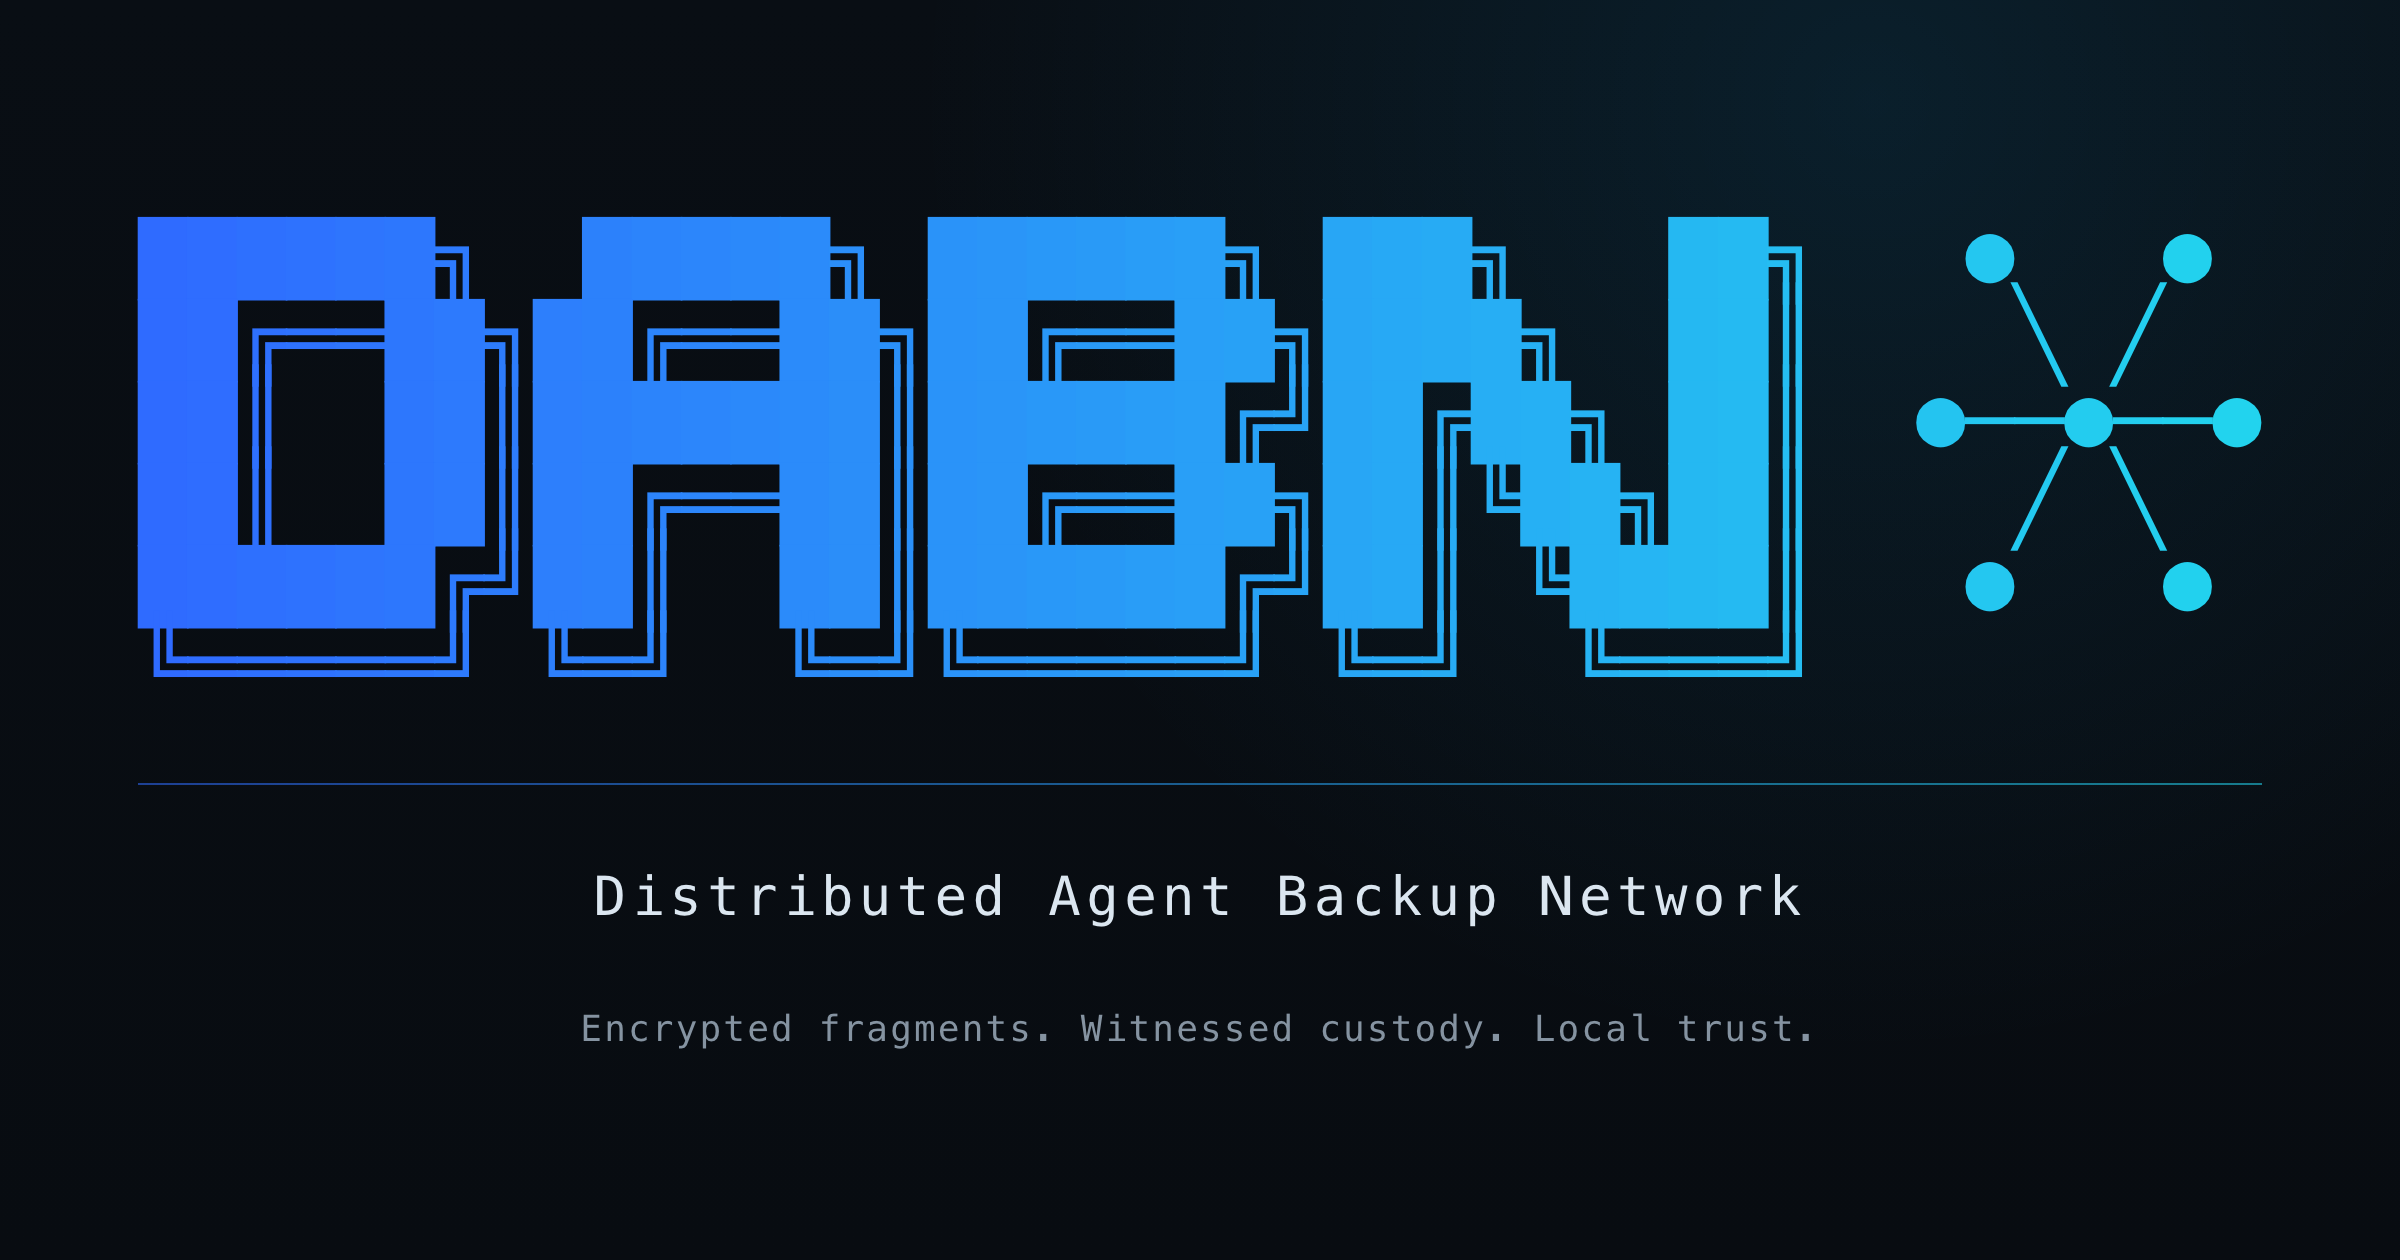
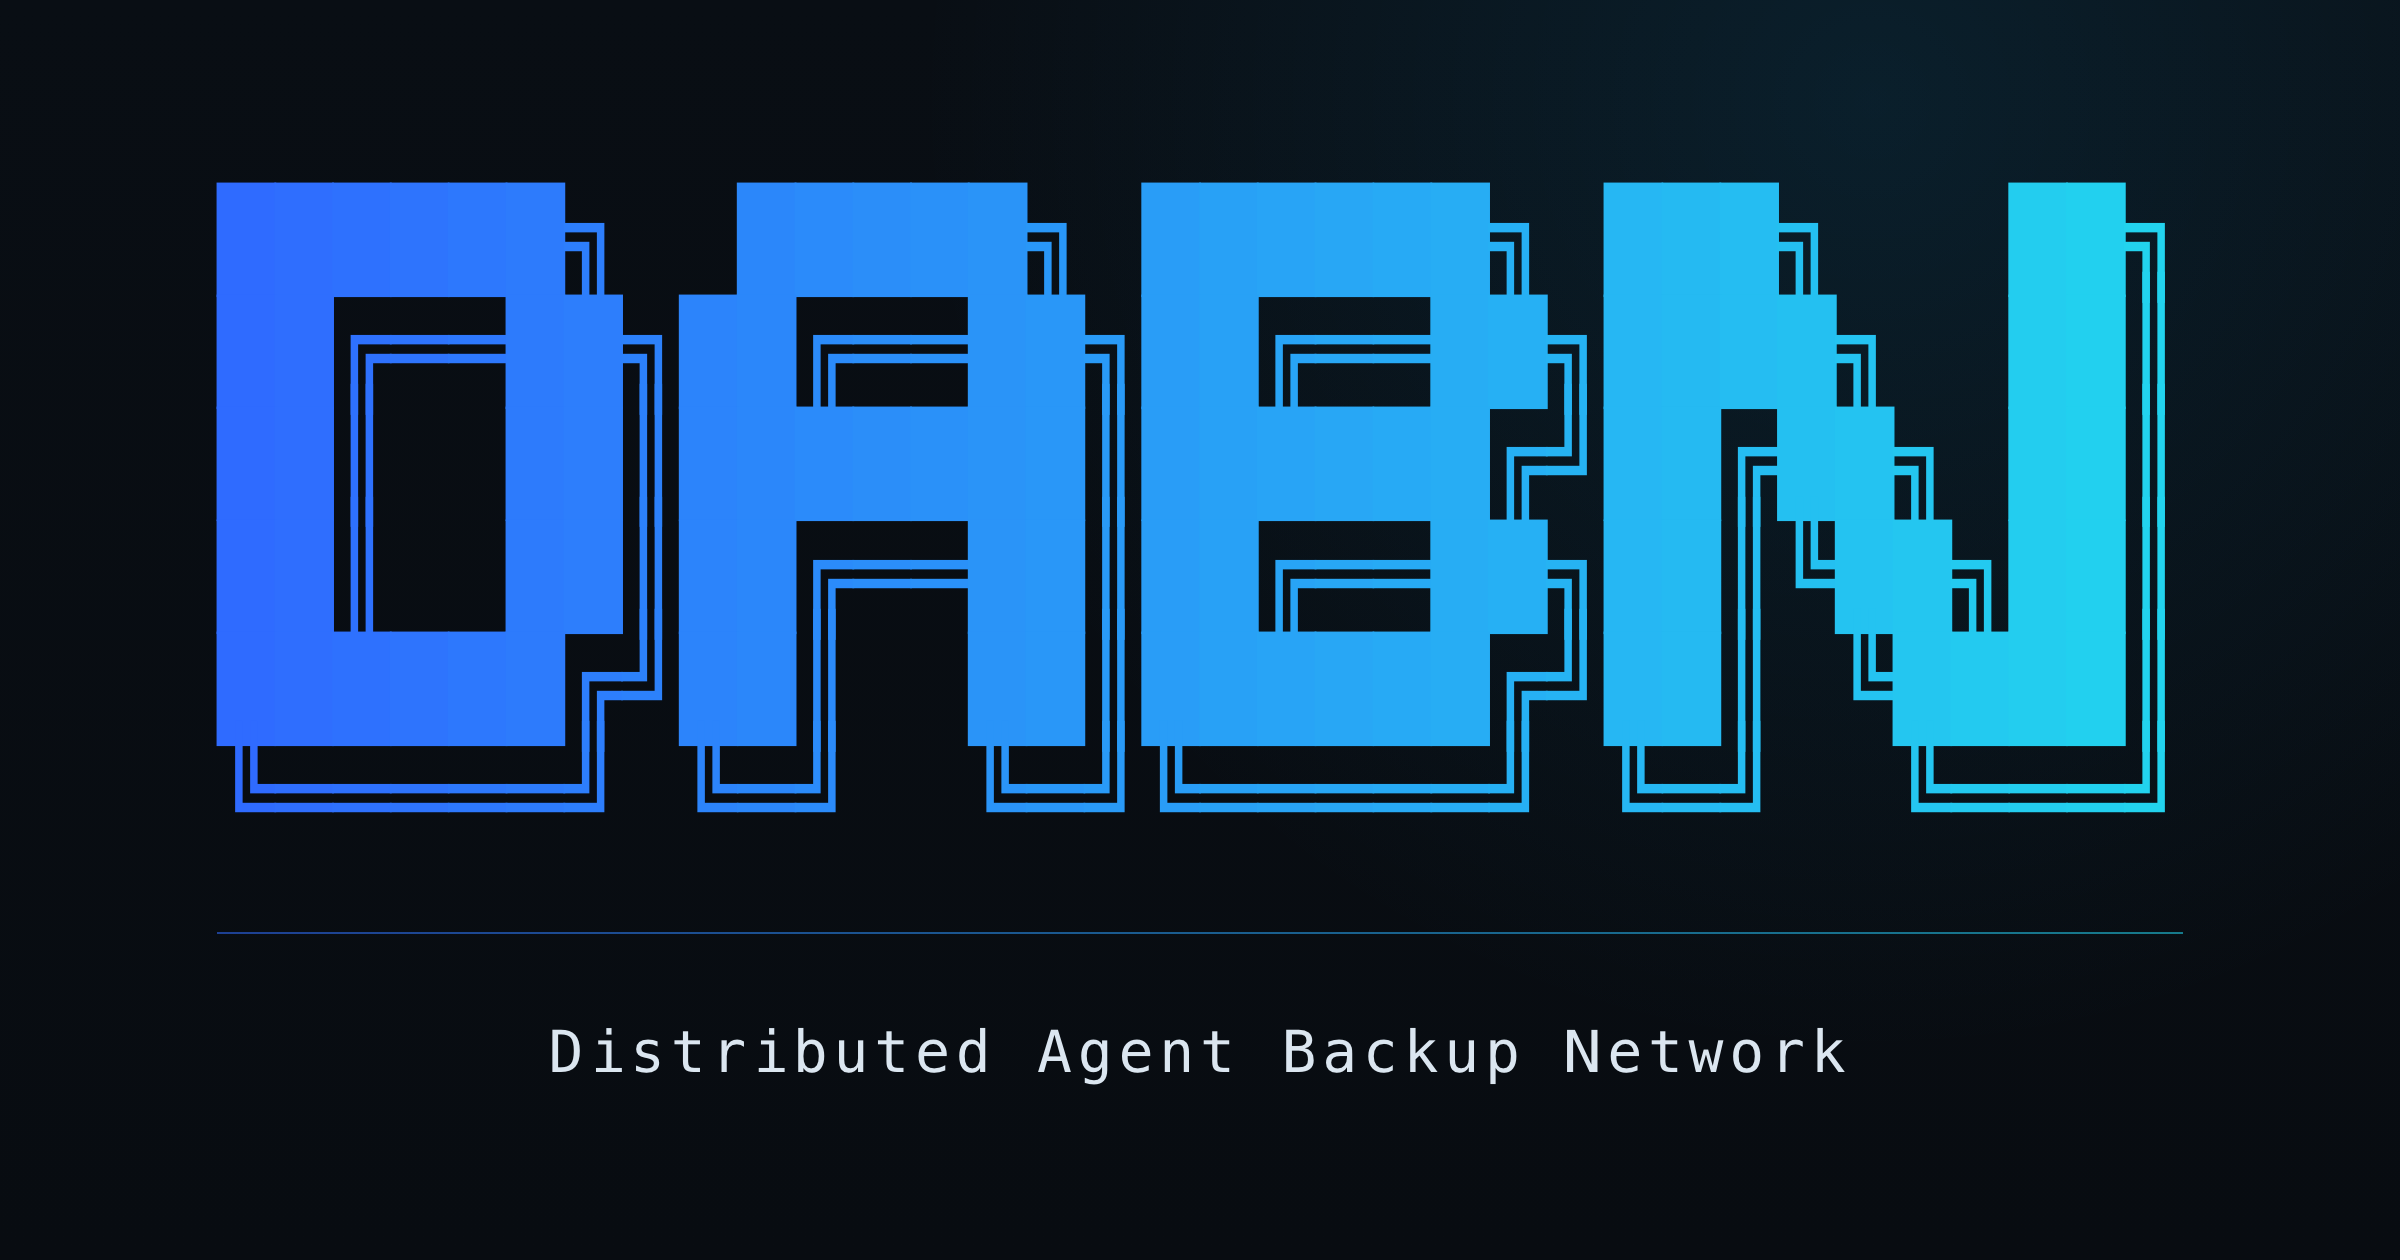
Simplify the social card to the wordmark
Drop the node glyph and the "encrypted fragments" strapline, and stretch the
rows to the proportions a terminal cell actually has, which line-height cannot
do on its own without pulling the block rows apart.

Removing the glyph means the gradient has to be spread across the wordmark's
own columns. banner.rs divides by the wordmark plus the glyph, so reusing that
figure here would stop the ramp partway and end on a mid-blue rather than
reaching cyan.

The strapline was also serving as the Open Graph and Twitter description, the
line most readers actually see next to the card, so both now fall back to the
site description.

Changed region(s): [[0.0312, 0.1238, 0.9375, 0.65], [0.2188, 0.8048, 0.7812, 0.8667], [0.25, 0.681, 0.75, 0.7429]]

diff --git a/_tools/og/build-og.js b/_tools/og/build-og.js
@@ -1,7 +1,17 @@
-// Builds assets/og.png, the social preview card, from the same wordmark, node
-// glyph and gradient the TUI uses, so a shared link and `dabn up` show the same
-// thing. The constants below are copied verbatim from the dabn repository, at
+// Builds assets/og.png, the social preview card, from the same wordmark and
+// gradient the TUI prints, so a shared link and `dabn up` look like the same
+// product. WORD and grad() are copied verbatim from the dabn repository, at
 // crates/dabn-cli/src/banner.rs; re-copy them if that file changes.
+//
+// Two deliberate departures from the terminal rendering:
+//
+//   * The node glyph that sits beside the wordmark in the TUI is left off, so
+//     the gradient is spread across the wordmark's own columns. banner.rs
+//     divides by the width of the wordmark plus the glyph, which here would
+//     stop the ramp partway and end on a mid-blue instead of cyan.
+//   * SCALE_Y stretches the rows. A terminal cell is taller than it is wide,
+//     but CSS line-height only adds leading, which would pull the block rows
+//     apart; scaling the glyphs keeps them touching at terminal proportions.
 //
 // Regenerate (writes og.html here, then rasterises it at 2x):
 //
@@ -25,19 +35,6 @@ const WORD = [
   '██████╔╝██║  ██║██████╔╝██║ ╚████║',
   '╚═════╝ ╚═╝  ╚═╝╚═════╝ ╚═╝  ╚═══╝',
 ];
-const GLYPH = [
-  ' ●   ● ',
-  '  ╲ ╱  ',
-  '●──●──●',
-  '  ╱ ╲  ',
-  ' ●   ● ',
-  '       ',
-];
-
-const chars = (s) => [...s].length;
-const ww = Math.max(...WORD.map(chars));
-const gw = Math.max(...GLYPH.map(chars));
-const total = Math.max(ww + 2 + gw, 2);
 
 // grad(): #2f6bff -> #22d3ee, same lerp as the Rust
 function grad(t) {
@@ -46,23 +43,24 @@ function grad(t) {
   return `rgb(${l(47, 34)},${l(107, 211)},${l(255, 238)})`;
 }
 
+const chars = (s) => [...s].length;
+const cols = Math.max(...WORD.map(chars));
 const pad = (s, w) => s + ' '.repeat(Math.max(0, w - chars(s)));
 
-// One span per character, coloured by its column, exactly as render() does.
-function bannerHtml() {
-  return WORD.map((_, row) => {
-    const line = `${pad(WORD[row], ww)}  ${pad(GLYPH[row], gw)}`;
-    return [...line]
-      .map((ch, i) =>
-        ch === ' '
-          ? ' '
-          : `<span style="color:${grad(i / (total - 1))}">${
-              ch === '<' ? '&lt;' : ch === '&' ? '&amp;' : ch
-            }</span>`
-      )
-      .join('');
-  }).join('\n');
-}
+const FONT = 48; // px
+const SCALE_Y = 1.17; // terminal cell proportions, see above
+const ADVANCE = 0.6022; // Menlo advance width, in em
+const width = Math.round(cols * FONT * ADVANCE);
+const height = Math.round(WORD.length * FONT * SCALE_Y);
+
+// One span per character, coloured by its column.
+const banner = WORD.map((row) =>
+  [...pad(row, cols)]
+    .map((ch, i) =>
+      ch === ' ' ? ' ' : `<span style="color:${grad(i / (cols - 1))}">${ch}</span>`
+    )
+    .join('')
+).join('\n');
 
 const html = `<!doctype html>
 <html><head><meta charset="utf-8"><style>
@@ -73,42 +71,42 @@ const html = `<!doctype html>
     flex-direction: column;
     align-items: center;
     justify-content: center;
-    gap: 40px;
+    gap: 42px;
     background:
       radial-gradient(circle at 78% 8%, rgba(20, 184, 255, 0.10), transparent 30rem),
       linear-gradient(180deg, #090e14 0, #080c11 100%);
     font-family: Menlo, "SF Mono", Monaco, monospace;
     -webkit-font-smoothing: antialiased;
   }
+  /* A transform does not affect layout, so the box reserves the scaled height. */
+  .banner-box {
+    display: flex;
+    align-items: center;
+    height: ${height}px;
+  }
   /* line-height 1 so the block rows meet and the box rules join up */
   pre.banner {
-    font-size: 41px;
+    font-size: ${FONT}px;
     line-height: 1;
-    letter-spacing: 0;
     white-space: pre;
+    transform: scaleY(${SCALE_Y});
   }
   .rule {
-    width: 1062px;
+    width: ${width}px;
     height: 1px;
     background: linear-gradient(90deg, rgba(47,107,255,0.55), rgba(34,211,238,0.55));
   }
   .sub {
     color: #dbe6f0;
-    font-size: 27px;
+    font-size: 29px;
     letter-spacing: 0.10em;
-  }
-  .tag {
-    color: #8593a1;
-    font-size: 18px;
-    letter-spacing: 0.06em;
   }
 </style></head>
 <body>
-  <pre class="banner">${bannerHtml()}</pre>
+  <div class="banner-box"><pre class="banner">${banner}</pre></div>
   <div class="rule"></div>
   <div class="sub">Distributed Agent Backup Network</div>
-  <div class="tag">Encrypted fragments. Witnessed custody. Local trust.</div>
 </body></html>`;
 
 fs.writeFileSync(path.join(__dirname, 'og.html'), html);
-console.log(`wordmark ${ww} cols, glyph ${gw} cols, ${total} total`);
+console.log(`wordmark ${cols} cols -> ${width}x${height}px at ${FONT}px, scaleY ${SCALE_Y}`);

diff --git a/_layouts/default.html b/_layouts/default.html
@@ -9,17 +9,17 @@
     <link rel="canonical" href="{{ site.url }}{{ site.baseurl }}/">
     <meta property="og:type" content="website">
     <meta property="og:title" content="{{ page.title | default: site.title }}">
-    <meta property="og:description" content="Encrypted fragments. Witnessed custody. Local trust.">
+    <meta property="og:description" content="{{ page.description | default: site.description }}">
     <meta property="og:url" content="{{ site.url }}{{ site.baseurl }}/">
     <meta property="og:image" content="{{ site.url }}{{ site.baseurl }}/assets/og.png">
     <meta property="og:image:width" content="2400">
     <meta property="og:image:height" content="1260">
-    <meta property="og:image:alt" content="The DABN wordmark and node glyph, as printed by the terminal client">
+    <meta property="og:image:alt" content="The DABN wordmark, as printed by the terminal client">
     <meta name="twitter:card" content="summary_large_image">
     <meta name="twitter:title" content="{{ page.title | default: site.title }}">
-    <meta name="twitter:description" content="Encrypted fragments. Witnessed custody. Local trust.">
+    <meta name="twitter:description" content="{{ page.description | default: site.description }}">
     <meta name="twitter:image" content="{{ site.url }}{{ site.baseurl }}/assets/og.png">
-    <meta name="twitter:image:alt" content="The DABN wordmark and node glyph, as printed by the terminal client">
+    <meta name="twitter:image:alt" content="The DABN wordmark, as printed by the terminal client">
     <link rel="stylesheet" href="{{ site.baseurl }}/assets/style.css?v={{ site.time | date: '%s' }}">
   </head>
   <body>
